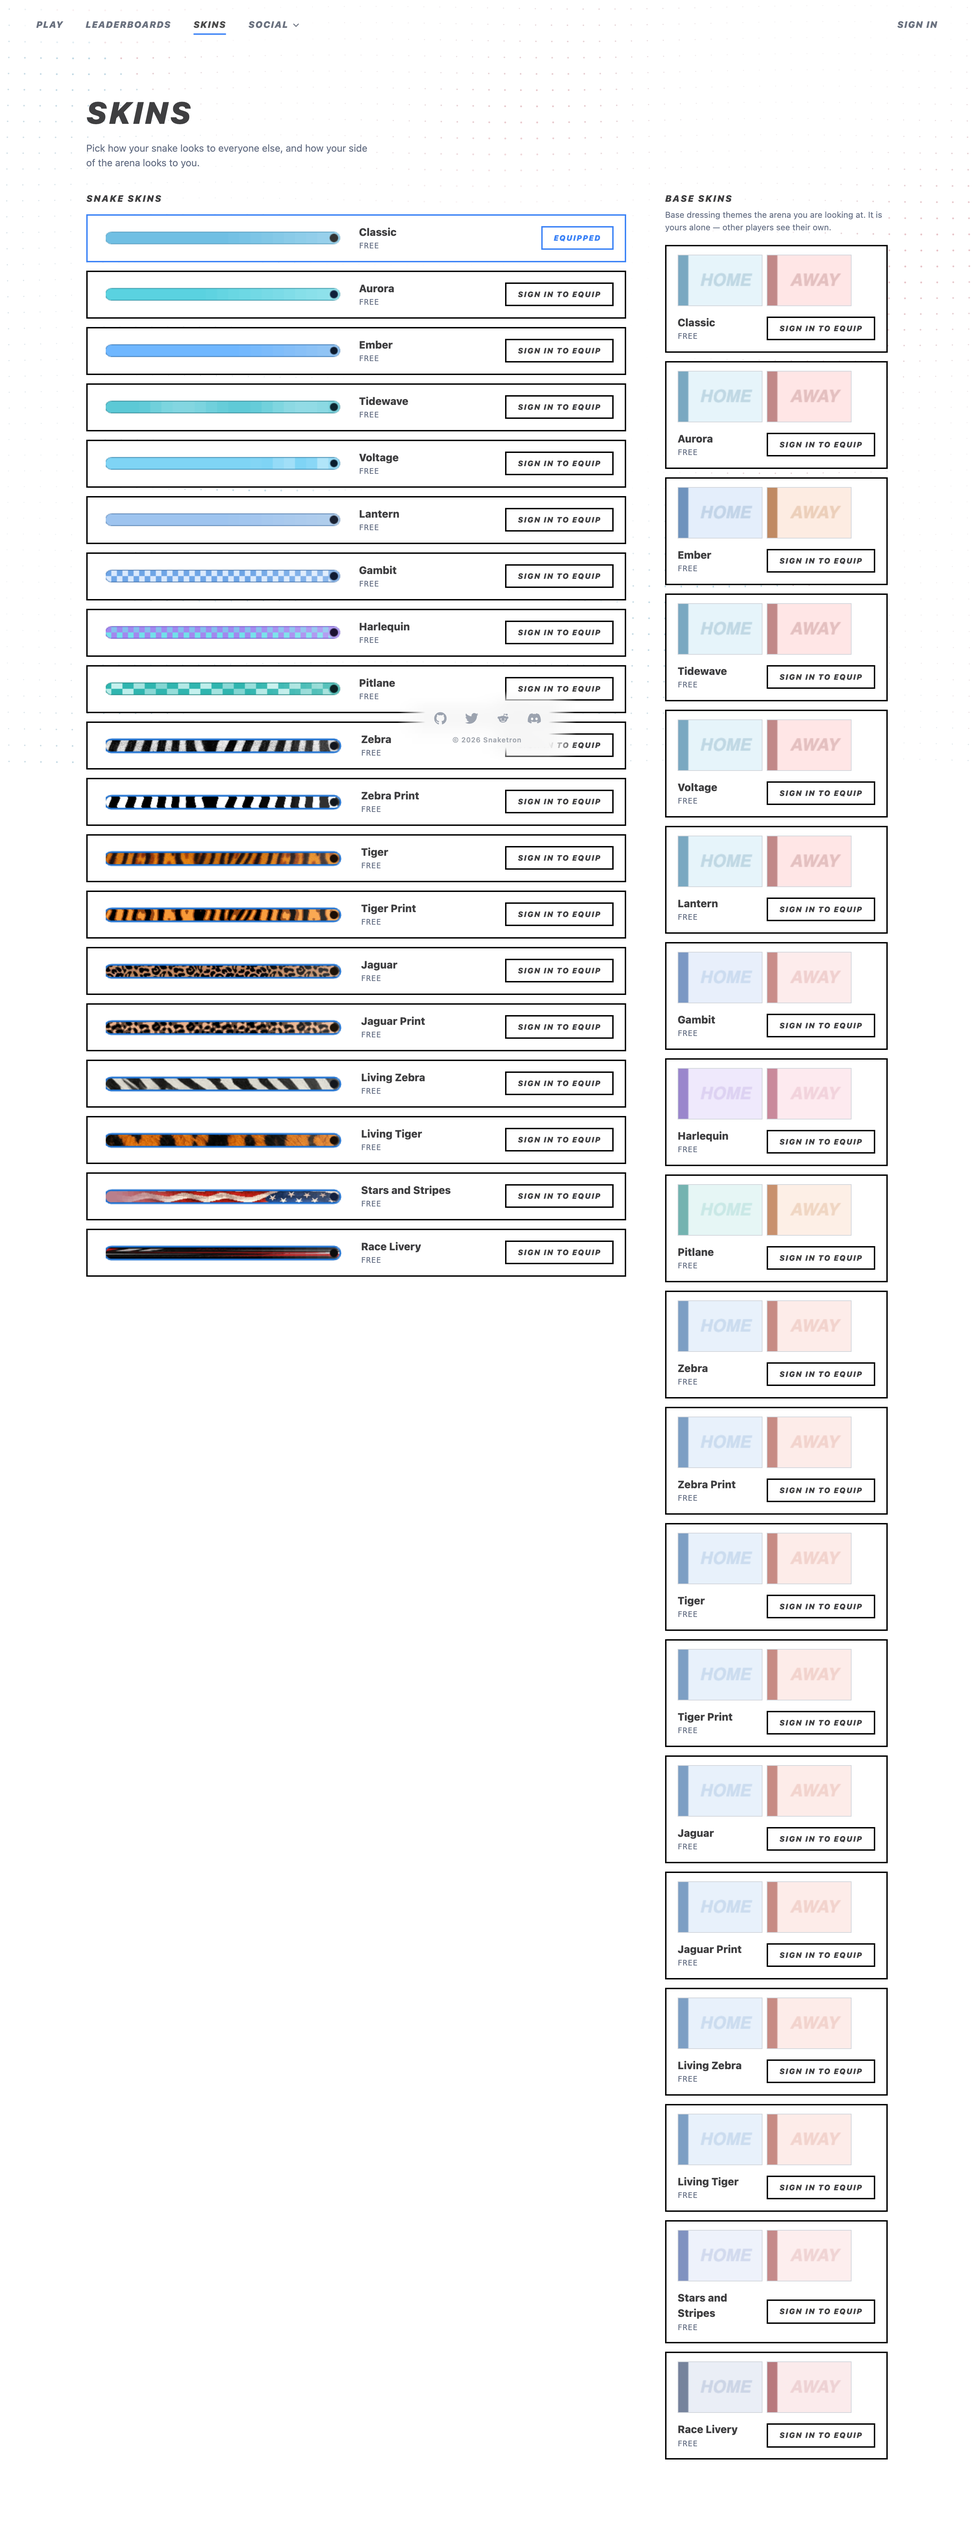
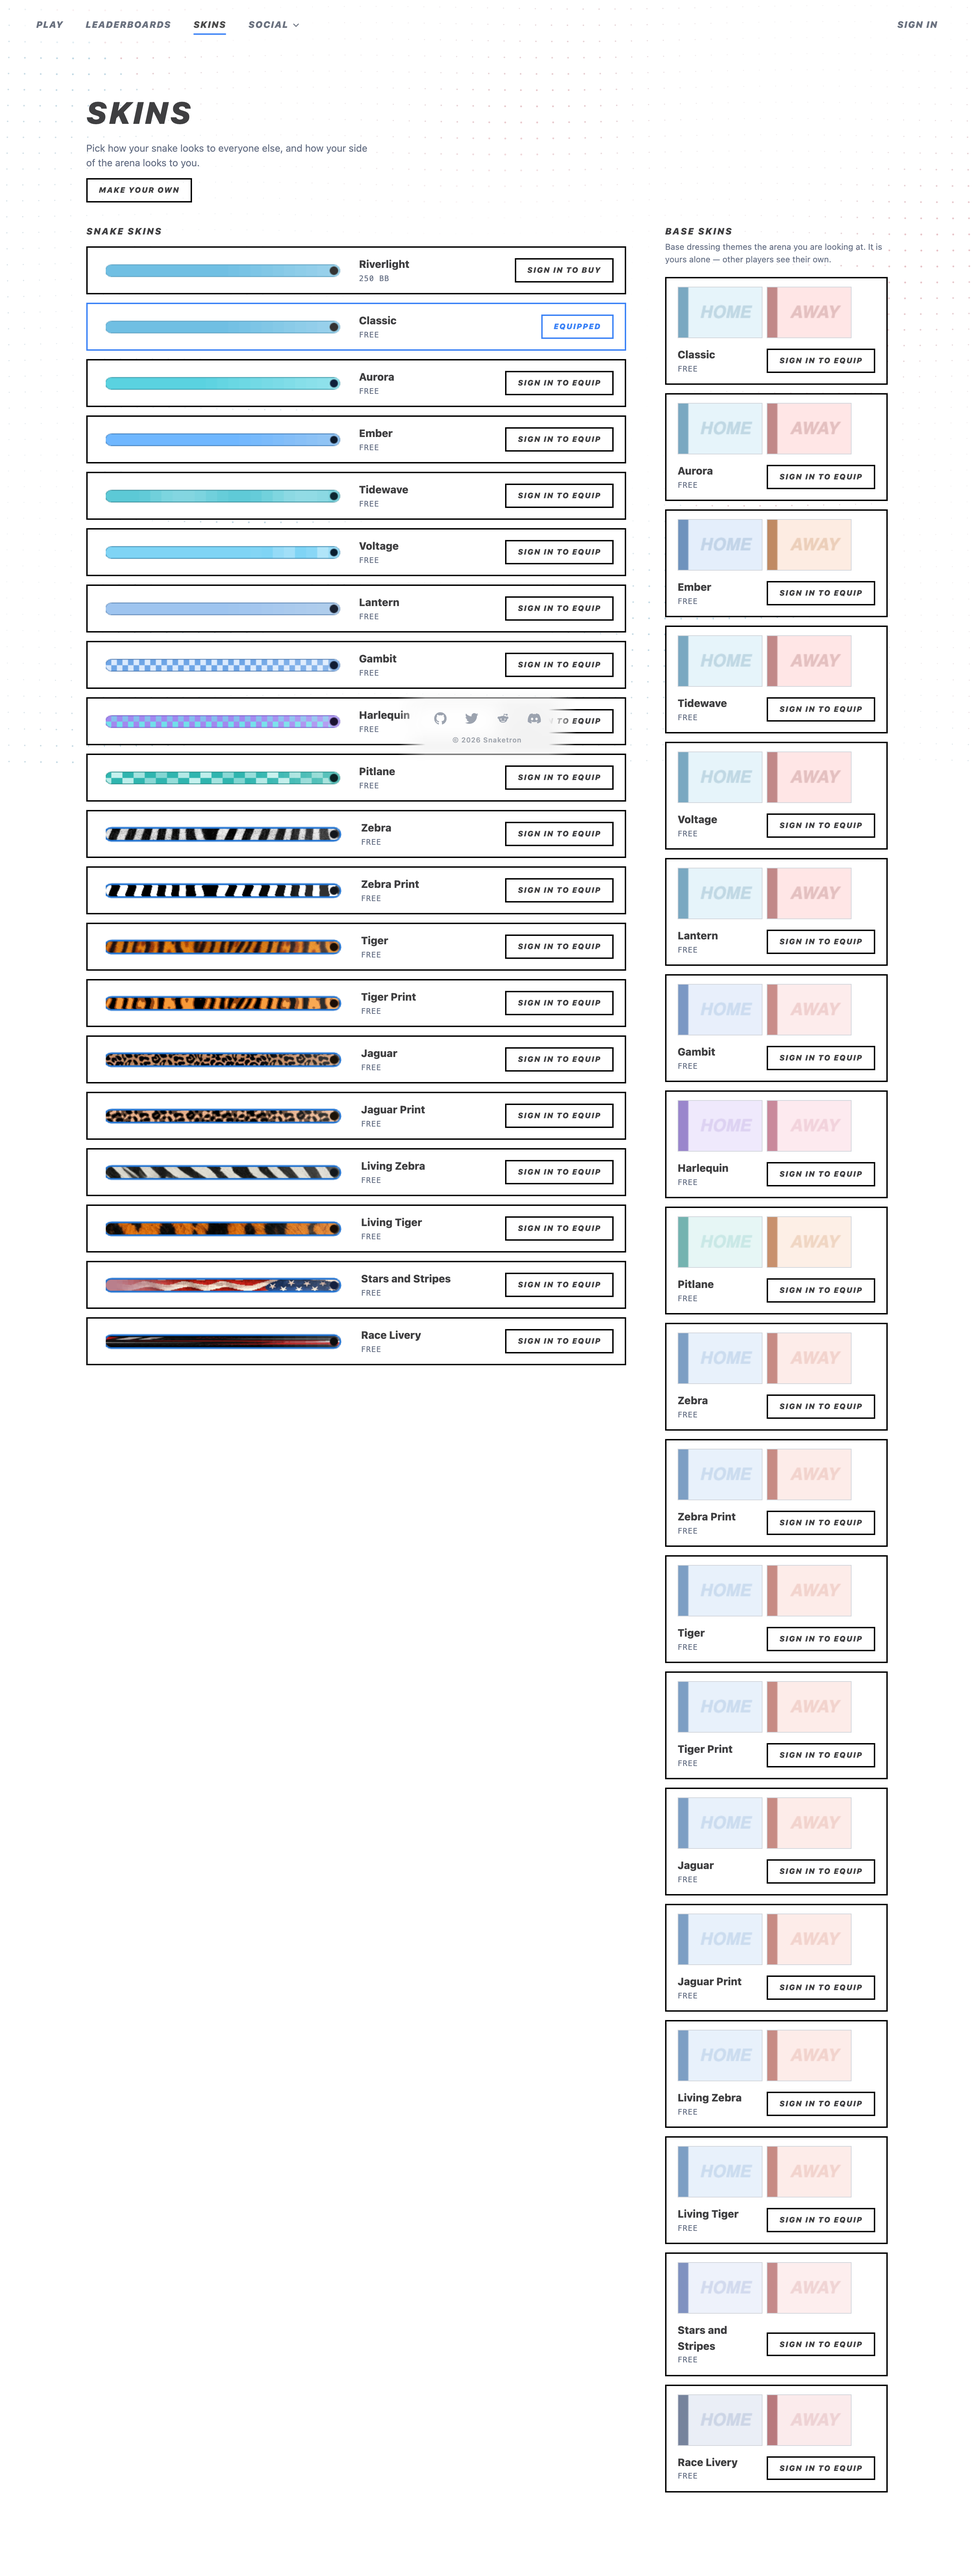
Put player-authored skins in the shop window
The Builder can make a skin and the server can store, review and publish one,
but the Skins page was still showing only the nineteen built-ins. Published
authored skins now appear at the top of the list — above the built-ins,
because a catalogue that buries the new thing under nineteen old ones is not
much of a shop window — with a price and a Buy action for the ones that cost
something.

Buying mints a fresh idempotency key per attempt, so a retry of one attempt
is free while a second deliberate purchase is a second purchase, and passes
the price the buyer was actually shown so a moved price comes back a conflict
rather than a surprise charge.

An authored row whose document has not resolved yet paints classic, which is
the standing fallback doing its job rather than an error state.

Changed region(s): [[0.0932, 0.0312, 0.6525, 0.5302], [0.6836, 0.0624, 0.9011, 0.9669], [0.7768, 0.9045, 0.9011, 0.9669]]

diff --git a/client/web/components/SkinsPage.tsx b/client/web/components/SkinsPage.tsx
@@ -5,7 +5,8 @@ import { SocialFooter } from './SocialFooter';
 import { useAuth } from '../contexts/AuthContext';
 import { api, isApiError } from '../services/api';
 import { getWasm, initWasm, whenSkinAssetsSettle } from '../wasm';
-import type { CatalogEntry } from '../types/generated';
+import type { CatalogEntry, SkinSummary } from '../types/generated';
+import { Link } from 'react-router-dom';
 import {
   DEFAULT_SKIN_REF,
   readBasePreference,
@@ -245,6 +246,8 @@ interface SkinRowProps {
   canEquip: boolean;
   isBusy: boolean;
   onEquip: (reference: string) => void;
+  /** Present only for a priced skin the viewer does not own yet. */
+  onBuy?: () => void;
 }
 
 const SkinRow: React.FC<SkinRowProps> = ({
@@ -254,6 +257,7 @@ const SkinRow: React.FC<SkinRowProps> = ({
   canEquip,
   isBusy,
   onEquip,
+  onBuy,
 }) => {
   const [hovered, setHovered] = useState(false);
   const reduceMotion = useMemo(prefersReducedMotion, []);
@@ -292,6 +296,16 @@ const SkinRow: React.FC<SkinRowProps> = ({
           <span className="skins-equipped-badge" data-testid={`skin-equipped-${slot}`}>
             Equipped
           </span>
+        ) : onBuy ? (
+          <button
+            type="button"
+            className="skins-equip-button"
+            disabled={isBusy}
+            onClick={onBuy}
+            data-testid={`skin-buy-${entry.reference}`}
+          >
+            {canEquip ? `Buy · ${entry.priceBux} BB` : 'Sign in to buy'}
+          </button>
         ) : (
           <button
             type="button"
@@ -316,6 +330,9 @@ const SkinsPage: React.FC<SkinsPageProps> = ({ onOpenAuth, onOpenAccount }) => {
   const [equippedSkin, setEquippedSkin] = useState<string>(DEFAULT_SKIN_REF);
   const [equippedBase, setEquippedBase] = useState<string | null>(null);
   const [busySlot, setBusySlot] = useState<Slot | null>(null);
+  /** Player-authored entries, kept beside the merged list so a row can find
+   *  the skin id a purchase needs. */
+  const [authored, setAuthored] = useState<SkinSummary[]>([]);
   const [error, setError] = useState<string | null>(null);
 
   useEffect(() => {
@@ -332,12 +349,31 @@ const SkinsPage: React.FC<SkinsPageProps> = ({ onOpenAuth, onOpenAccount }) => {
 
   useEffect(() => {
     let cancelled = false;
-    void Promise.all([api.browseSkins('snake'), api.browseSkins('base')])
-      .then(([snakes, bases]) => {
+    // Built-ins and player-authored skins are two different lists on the
+    // server — one is compiled in, the other is stored — and one list to a
+    // player. Authored skins go first: they are the new thing, and a catalogue
+    // that buries them under nineteen built-ins is not much of a shop window.
+    void Promise.all([
+      api.browseSkins('snake'),
+      api.browseSkins('base'),
+      api.browseAuthoredSkins('snake').catch(() => ({ skins: [], cursor: null })),
+    ])
+      .then(([snakes, bases, authored]) => {
         if (cancelled) {
           return;
         }
-        setSnakeSkins(snakes.skins);
+        setSnakeSkins([
+          ...authored.skins.map(
+            (skin): CatalogEntry => ({
+              reference: skin.reference,
+              name: skin.name,
+              kind: 'snake',
+              priceBux: skin.priceBux,
+            }),
+          ),
+          ...snakes.skins,
+        ]);
+        setAuthored(authored.skins);
         setBaseSkins(bases.skins);
       })
       .catch(() => {
@@ -412,6 +448,36 @@ const SkinsPage: React.FC<SkinsPageProps> = ({ onOpenAuth, onOpenAccount }) => {
     [equippedBase, equippedSkin, onOpenAuth, user],
   );
 
+  const buy = useCallback(
+    async (skin: SkinSummary) => {
+      if (!user) {
+        onOpenAuth();
+        return;
+      }
+      setError(null);
+      try {
+        // A fresh key per attempt, so a retry of *this* attempt is free and a
+        // second deliberate purchase is a second purchase.
+        const result = await api.purchaseSkin(
+          skin.skinId,
+          skin.priceBux,
+          crypto.randomUUID(),
+        );
+        if (result.outcome === 'purchased' || result.outcome === 'alreadyOwned') {
+          await equip('snake', skin.reference);
+        }
+      } catch (cause) {
+        setError(
+          isApiError(cause)
+            ? cause.message
+            : 'That skin could not be bought right now.',
+        );
+      }
+    },
+    [equip, onOpenAuth, user],
+  );
+
+
   return (
     <div className="home-page skins-page">
       <HomeHeader
@@ -434,6 +500,9 @@ const SkinsPage: React.FC<SkinsPageProps> = ({ onOpenAuth, onOpenAccount }) => {
             Pick how your snake looks to everyone else, and how your side of the
             arena looks to you.
           </p>
+          <Link className="skins-create-link" to="/skins/builder">
+            Make your own
+          </Link>
         </div>
 
         {error ? (
@@ -458,6 +527,16 @@ const SkinsPage: React.FC<SkinsPageProps> = ({ onOpenAuth, onOpenAccount }) => {
                       canEquip={Boolean(user)}
                       isBusy={busySlot === 'snake'}
                       onEquip={(reference) => void equip('snake', reference)}
+                      onBuy={(() => {
+                        const match = authored.find(
+                          (candidate) => candidate.reference === entry.reference,
+                        );
+                        // Built-ins are free and already everyone's; only a
+                        // priced authored skin needs buying.
+                        return match && match.priceBux > 0
+                          ? () => void buy(match)
+                          : undefined;
+                      })()}
                     />
                   ))
                 : null}

diff --git a/client/web/services/api.ts b/client/web/services/api.ts
@@ -22,9 +22,11 @@ import type { PublicGameResponse } from '../types/generated';
 import type {
   BrowseResponse,
   Equipment,
+  PurchaseResult,
   SkinKind,
   SkinListResponse,
   SkinSummary,
+  Wallet,
 } from '../types/generated';
 
 /**
@@ -489,6 +491,36 @@ class API {
       method: 'PUT',
       body: JSON.stringify(request),
     });
+  }
+
+  /** Published player-authored skins, newest first. */
+  async browseAuthoredSkins(
+    kind: SkinKind = 'snake',
+    filter: 'published' | 'mine' = 'published',
+  ): Promise<SkinListResponse> {
+    return this.request<SkinListResponse>(`/api/skins/browse?kind=${kind}&filter=${filter}`);
+  }
+
+  /**
+   * Buy a skin.
+   *
+   * `expectedPriceBux` is what the buyer was shown; the server conditions on
+   * it, so a price that moved between the dialog and this call comes back a
+   * 409 rather than charging a surprise.
+   */
+  async purchaseSkin(
+    skinId: number,
+    expectedPriceBux: number,
+    idempotencyKey: string,
+  ): Promise<PurchaseResult> {
+    return this.request<PurchaseResult>(`/api/skins/${skinId}/purchase`, {
+      method: 'POST',
+      body: JSON.stringify({ idempotencyKey, expectedPriceBux }),
+    });
+  }
+
+  async getWallet(): Promise<Wallet> {
+    return this.request<Wallet>('/api/wallet');
   }
 
   /** Create a skin from a document the editor has already compiled. */

diff --git a/client/web/index.css b/client/web/index.css
@@ -7594,3 +7594,22 @@ a.home-social-icon:hover {
 .builder-group .builder-field-color > span {
   min-width: 6rem;
 }
+
+.skins-create-link {
+  display: inline-block;
+  margin-top: 12px;
+  border: 2px solid #000;
+  padding: 7px 16px;
+  font-size: 11px;
+  font-style: italic;
+  font-weight: 900;
+  letter-spacing: 0.1em;
+  text-transform: uppercase;
+  color: var(--game-graphite);
+  text-decoration: none;
+}
+
+.skins-create-link:hover {
+  background: var(--game-graphite);
+  color: var(--game-paper);
+}
